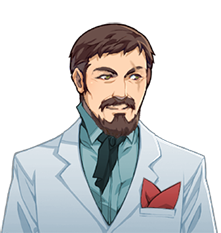
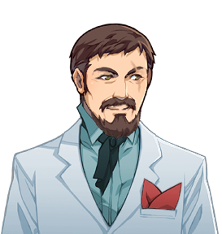
Beard tamed

diff --git a/Bust Config.rb b/Bust Config.rb
@@ -3,7 +3,6 @@ Busty::FACE_TO_BUST = {
   "1 Simon dark eyes2" => "Simon2",
   "1 Simon dark" => "Simon2",
   "1 Simon dark2" => "Simon2",
-  # FIXME There are actually two distinct distress busts (2B and 2D) and I have no idea which one should be used with which faces
   "1 Simon distress1" => "Simon2D",
   "1 Simon distress2" => "Simon2D",
   "1 Simon distress3" => "Simon2",
@@ -180,9 +179,6 @@ Busty::MESSAGE_AUTODISPLAY_SPECIAL = {
 
   # Luanall shares her face with nameless NPC, and there's not really a good way to differentiate them right now
   "Luanell" => "never",
-
-  # Temporary disable characters in need of a bust fix
-  "Simon2D" => "never",
 }
 module Busty
   class << self
@@ -999,36 +995,30 @@ Busty::BASE_CONFIG.merge!({
     face_offset_x: 57,
     face_offset_y: 54,
   },
-  # FIXME Major. Still some issues with the beard?
   "Simon suit wedding" => {
-    bust_scale: 0.81,
+    bust_scale: 0.815,
     face_offset_x: 64,
     face_offset_y: 45,
-    face_border_width: [0, 13, 19, 28],
   },
   "Simon1" => {
     bust_scale: 0.75,
     face_offset_x: 63,
     face_offset_y: 34,
-    face_z: -1,
   },
   "Simon2" => {
     bust_scale: 0.75,
     face_offset_x: 67,
     face_offset_y: 32,
-    face_border_width: [0, 0, 24, 0],
   },
   "Simon2B" => {
     bust_scale: 0.75,
     face_offset_x: 67,
     face_offset_y: 32,
-    face_border_width: [0, 0, 24, 0],
   },
   "Simon2D" => {
     bust_scale: 0.75,
     face_offset_x: 67,
     face_offset_y: 32,
-    face_border_width: [0, 0, 24, 0],
   },
 })
 
